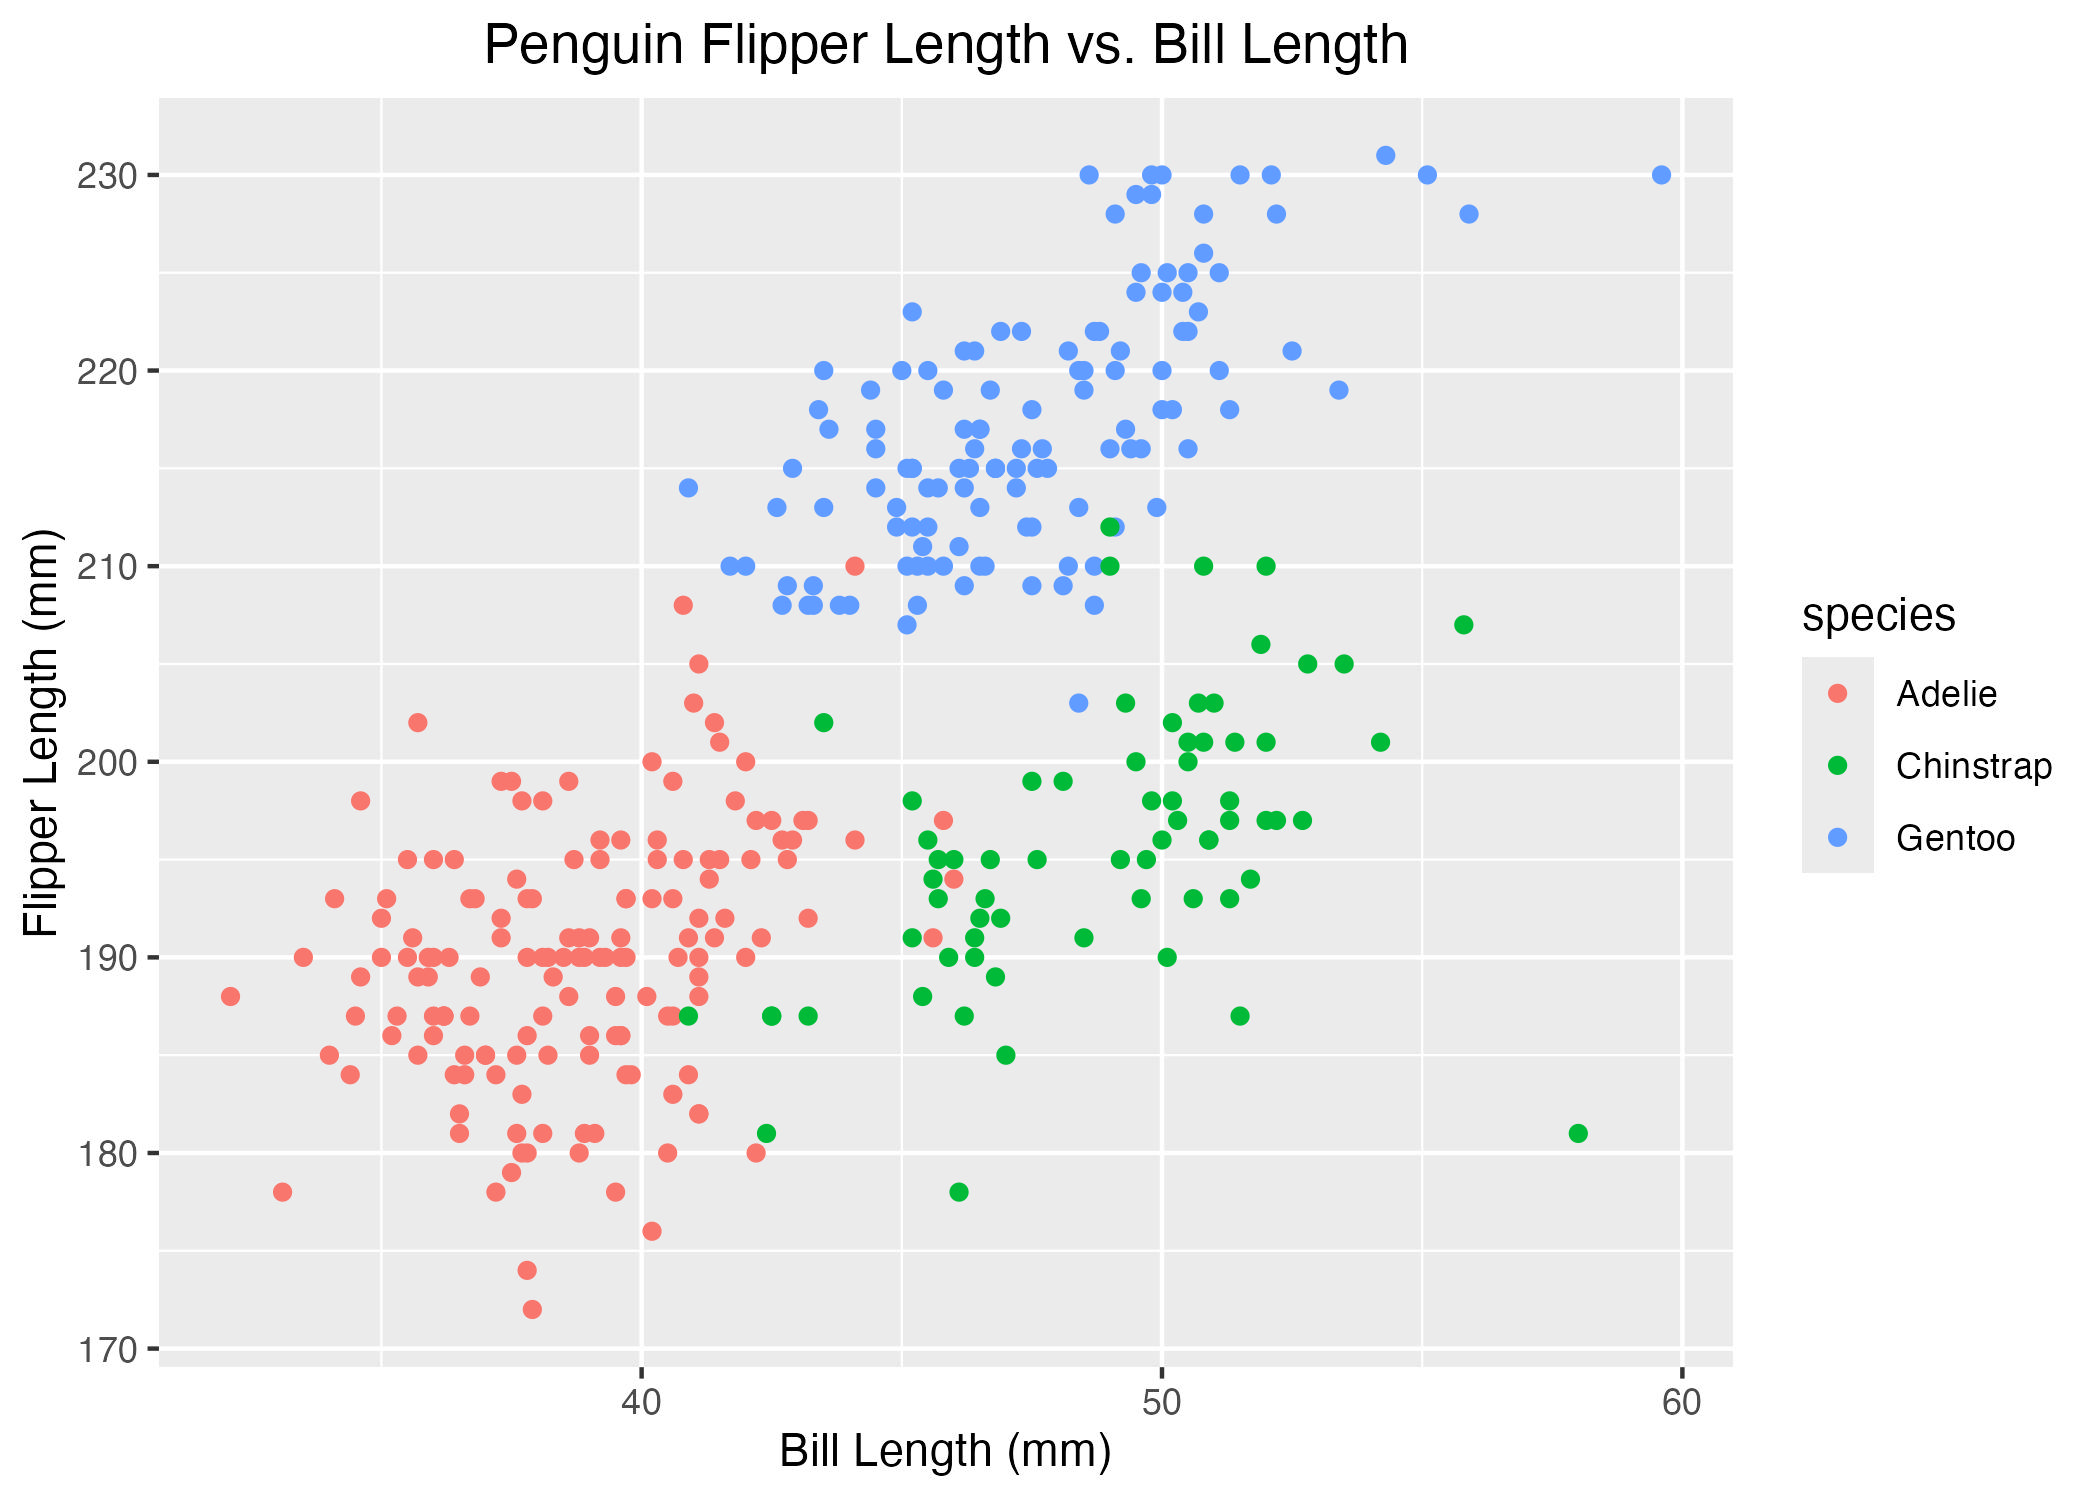
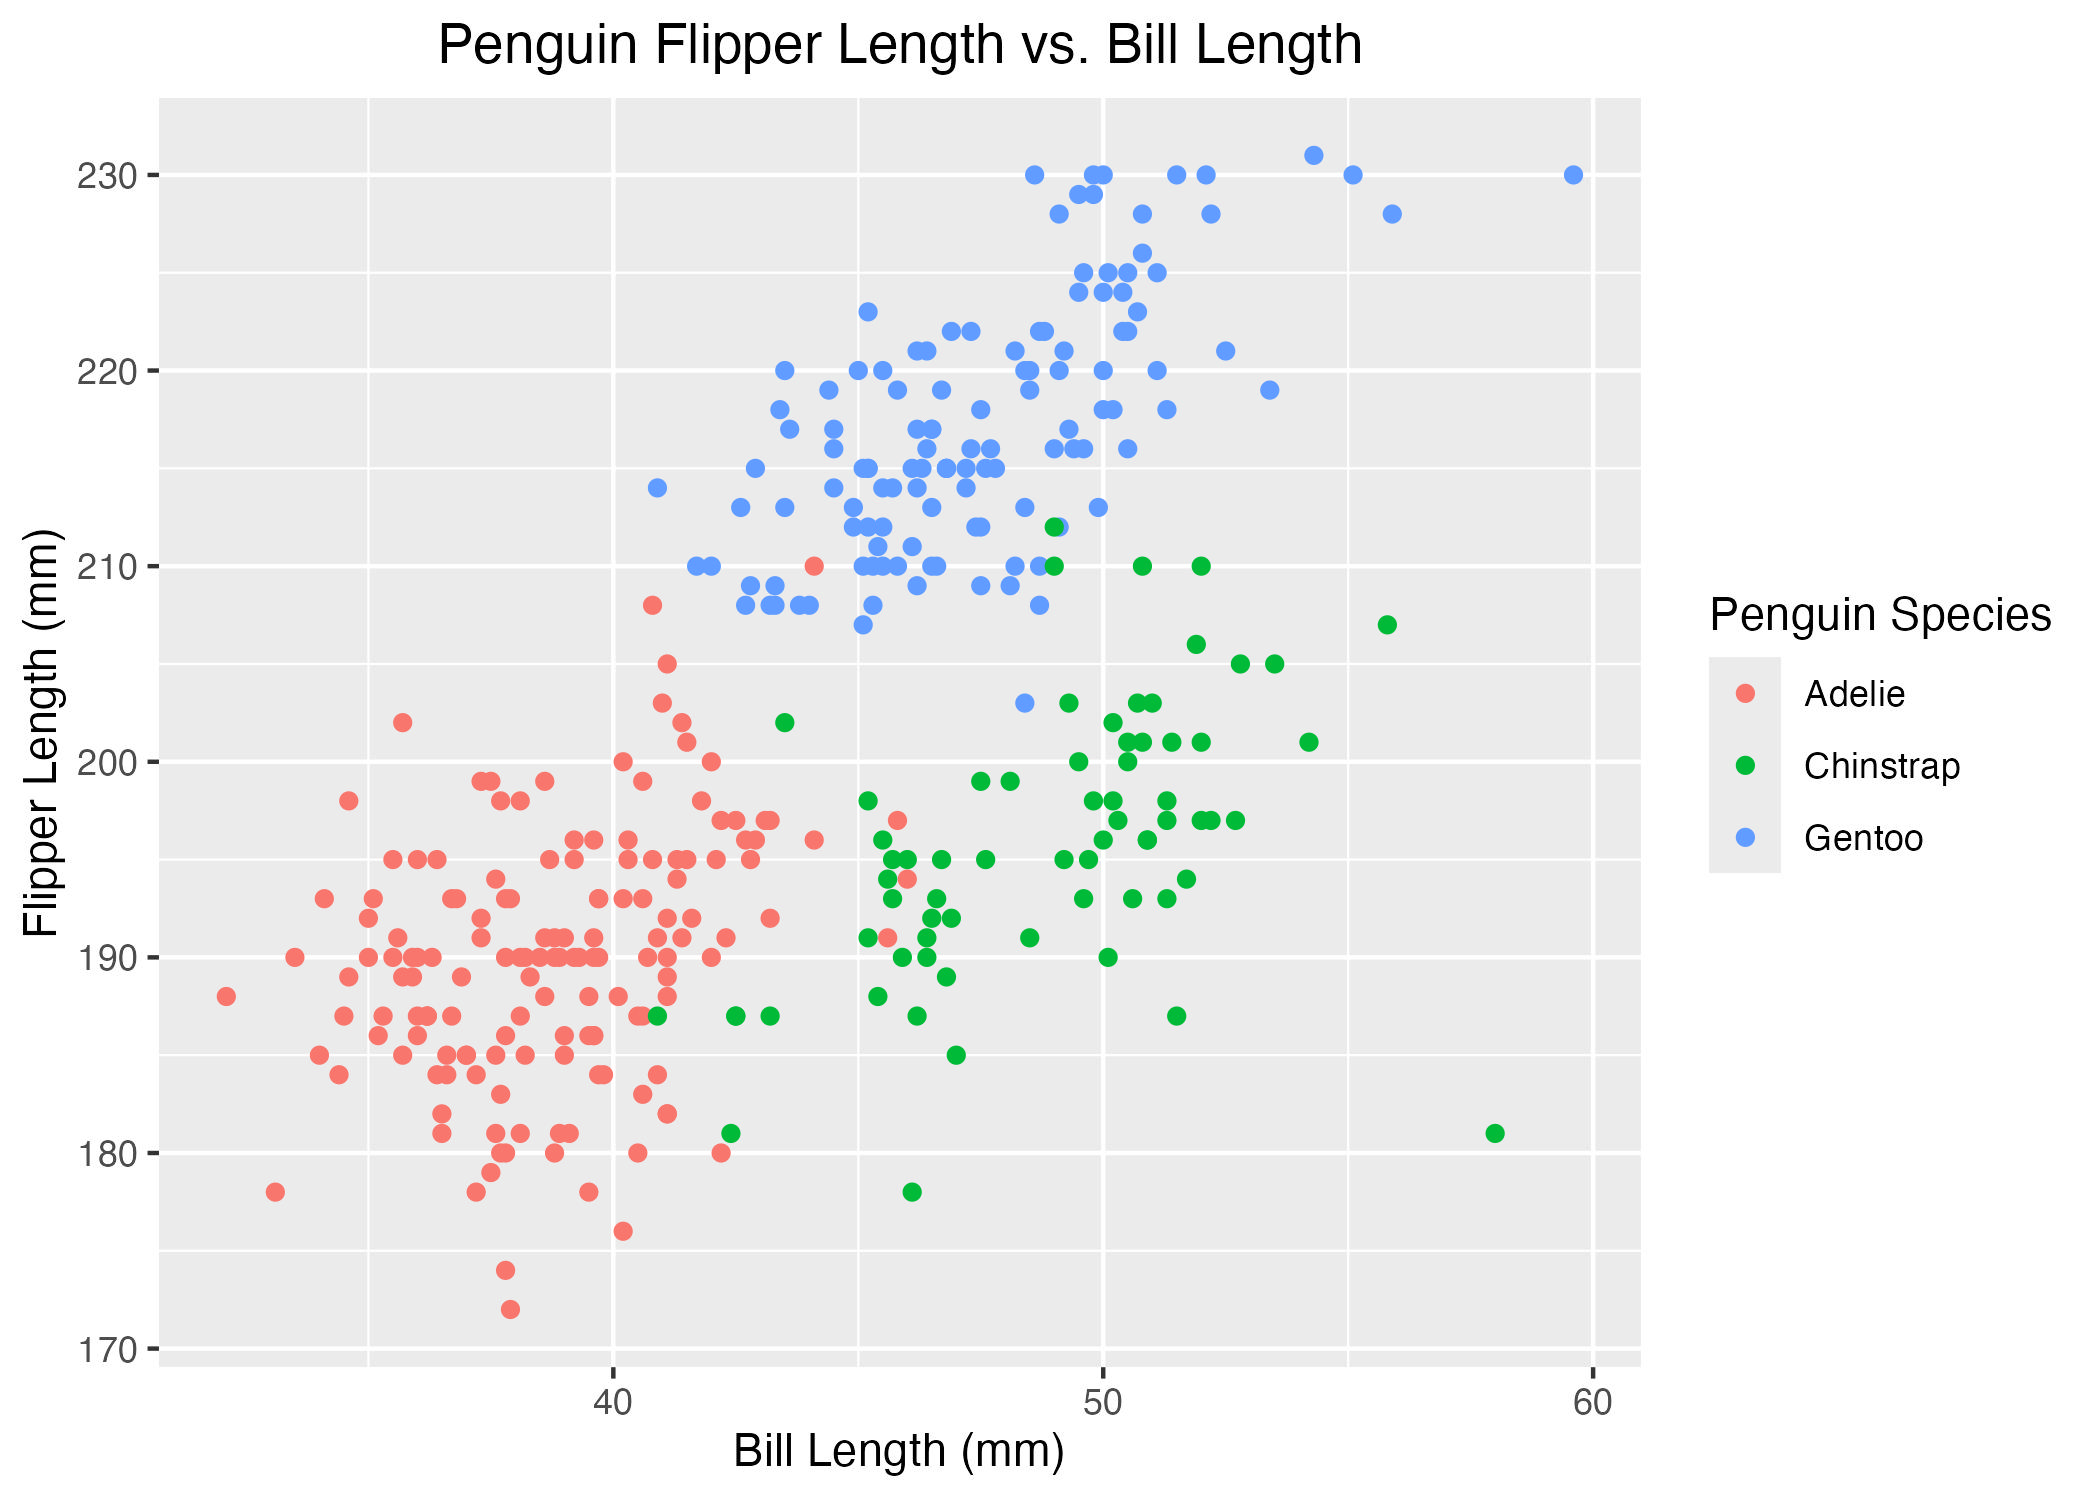
Last polishing of code and all sections. Ready to submit :)

diff --git a/p8105_hw1_daq2107.md b/p8105_hw1_daq2107.md
@@ -22,10 +22,6 @@ library(tidyverse)
     ## ✖ dplyr::lag()    masks stats::lag()
     ## ℹ Use the conflicted package (<http://conflicted.r-lib.org/>) to force all conflicts to become errors
 
-``` r
-library(skimr)
-```
-
 ## Problem 1
 
 Loading ‘penguins’ data set:
@@ -37,7 +33,7 @@ data("penguins", package = "palmerpenguins")
 After the data has been loaded, we can explore the ‘penguins’ data set:
 
 ``` r
-penguins #General observation of the data frame
+penguins #General observation of the data frame.
 ```
 
     ## # A tibble: 344 × 8
@@ -69,59 +65,72 @@ ncol(penguins) #Obtaining number of columns
     ## [1] 8
 
 ``` r
-skim(penguins$flipper_length_mm) #Using the 'skimr' package to obtain mean flipper length
+#To obtain the mean value of the flipper length, we use the pull function and remove the missing values using 'na.rm':
+mean(pull(penguins, flipper_length_mm), na.rm = TRUE)
 ```
 
-|  |  |
-|:---|:---|
-| Name | penguins\$flipper_length_m… |
-| Number of rows | 344 |
-| Number of columns | 1 |
-| \_\_\_\_\_\_\_\_\_\_\_\_\_\_\_\_\_\_\_\_\_\_\_ |  |
-| Column type frequency: |  |
-| numeric | 1 |
-| \_\_\_\_\_\_\_\_\_\_\_\_\_\_\_\_\_\_\_\_\_\_\_\_ |  |
-| Group variables | None |
-
-Data summary
-
-**Variable type: numeric**
-
-| skim_variable | n_missing | complete_rate |   mean |    sd |  p0 | p25 | p50 | p75 | p100 | hist  |
-|:--------------|----------:|--------------:|-------:|------:|----:|----:|----:|----:|-----:|:------|
-| data          |         2 |          0.99 | 200.92 | 14.06 | 172 | 190 | 197 | 213 |  231 | ▂▇▃▅▂ |
-
-#### what do we say about ‘important values of variables’?
-
-#### okay to use ‘skmr’ package or do we need to just use mean?
-
-**Description:** We see that the ‘penguins’ data set is a tibble
-containing 344 observations and 8 variables, as confirmed by the ‘nrow’
-and ‘ncol’ functions (344 rows and 8 columns). Each observation
-corresponds to a penguin, whereas the variables describe their location
-(‘island’ variable), their species, sex, year of physical
-characteristics of each penguin, including their bills’ length and depth
-(mm), their flippers’ length (mm), and overall body mass (g).
-
-Additionally, we see that the mean flipper length for all observations
-in the data set is 200.9152 mm.
-
-We can also create a scatter plot of flipper length (y) vs. bill length
-(x):
+    ## [1] 200.9152
 
 ``` r
-#Using ggplot (part of 'tidyverse' package):
+sd(pull(penguins, flipper_length_mm), na.rm = TRUE)
+```
+
+    ## [1] 14.06171
+
+``` r
+#Also analyzing bill length, since this is an important variable that we will be analyzing:
+mean(pull(penguins, bill_length_mm), na.rm = TRUE)
+```
+
+    ## [1] 43.92193
+
+``` r
+sd(pull(penguins, bill_length_mm), na.rm = TRUE)
+```
+
+    ## [1] 5.459584
+
+``` r
+#Using inline R code below...
+```
+
+**Description (using inline R code):** We see that the ‘penguins’ data
+set is a tibble containing 344 observations and 8 variables. Each
+observation corresponds to a penguin, whereas the variables describe
+their location (categorical ‘island’ variable), their species
+(categorical), sex (categorical), year (numeric), and physical
+characteristics of each penguin, including their bills’ length and depth
+(millimeters; numeric), their flippers’ length (millimeters; numeric),
+and overall body mass (grams; numeric).
+
+Additionally, after removing missing values (using ‘na.rm’) we see that
+the mean flipper length for all observations in the data set is
+200.9152047 mm, with a standard deviation of 14.0617137 mm.
+
+Moreover, after removing missing values we see that the mean bill length
+for all observations in the data set is 43.9219298 mm, with a standard
+deviation of `r`sd(pull(penguins, bill_length_mm), na.rm = TRUE)\` mm.
+
+**Visualizing the data**
+
+We can also create a scatter plot of flipper length (y) vs. bill length
+(x). Note that ggplot automatically removes NA values when creating the
+scatter plot:
+
+``` r
+#Using ggplot (part of 'tidyverse' package). Note that ggplot automatically removes NA values from scatter plot:
 
 ggplot(penguins, aes(x = bill_length_mm, 
                      y = flipper_length_mm,
                      color = species)) +  #Coloring per 'species' variable
     geom_point() +
   
-#Adding labels to my scatter plot (I know this code per previous experience with ggplot)
+#Adding labels to my scatter plot (I know this code syntax per previous experience with ggplot in another class and work)
   
   labs(title = "Penguin Flipper Length vs. Bill Length",
        x = "Bill Length (mm)",
-       y = "Flipper Length (mm)") +
+       y = "Flipper Length (mm)",
+       color = "Penguin Species") +
   
   theme(plot.title = element_text(hjust = 0.5)) #Centering my title
 ```
@@ -142,22 +151,14 @@ ggsave(filename = "DSI_HW1_Problem1.jpg")
     ## Warning: Removed 2 rows containing missing values or values outside the scale range
     ## (`geom_point()`).
 
-##### jpg or png???
-
-#### do we need to address the missing values???
-
-#### okay extra ggplot things considering my previous class????
-
-#### email reminding him older R version. to Gustavo???
-
 ## Problem 2
 
 We can create a data frame using the ‘tibble’ function (part of the
 ‘tidyverse’ package):
 
-####### do we need to take ‘seed’? to make sure means remain consistent?
-
 ``` r
+set.seed(0) #Setting seed to make sure you are getting the same output as me
+
 new_df = tibble(
   vec_sample = rnorm(10, mean = 1), #Random sample of 10 and mean equal to 1
   vec_log = vec_sample > 0, #Logical vector checking if the sample's elements are above zero
@@ -167,19 +168,19 @@ new_df = tibble(
 ```
 
 After we have created our desired data frame, we can attempt to take the
-mean of each newly-created variable:
+mean of each newly-created vector variable:
 
 ``` r
 mean(pull(new_df, vec_sample))
 ```
 
-    ## [1] 0.5410555
+    ## [1] 1.358924
 
 ``` r
 mean(pull(new_df, vec_log))
 ```
 
-    ## [1] 0.7
+    ## [1] 0.9
 
 ``` r
 mean(pull(new_df, vec_char))
@@ -200,63 +201,42 @@ mean(pull(new_df, vec_factor))
     ## [1] NA
 
 We can see from the output above that we are able to take the mean for
-our random sample (mean = 0.7015389) and logical vectors (mean = 0.7).
-However, as expected, we cannot take the means of our character and
-factor vectors since they are not numerical.
+our random sample (mean = 1.36) and logical vectors (mean = 0.9; since
+it is taking Boolean values to be either ‘1’ or ‘0’ for TRUE or FALSE,
+respectively). However, as expected, we cannot take the means of our
+character and factor vectors since they are not numerical.
 
-We can attempt to use the ‘as.numeric’ function to convert the variables
-into numerical variables and then take the mean:
-
-``` r
-as.numeric(new_df$vec_log)
-```
-
-    ##  [1] 1 1 1 0 1 1 0 0 1 1
+Per the assignment instructions, we can attempt to use the ‘as.numeric’
+function to convert the variables into numerical variables and then take
+the mean:
 
 ``` r
-as.numeric(new_df$vec_char)
+#Observing my vectors converted using 'as.numeric':
+as.numeric(pull(new_df, vec_sample))
+as.numeric(pull(new_df, vec_log))
+as.numeric(pull(new_df, vec_char))
 ```
 
     ## Warning: NAs introduced by coercion
 
-    ##  [1] NA NA NA NA NA NA NA NA NA NA
-
 ``` r
-as.numeric(new_df$vec_factor)
+as.numeric(pull(new_df, vec_factor))
 ```
 
-    ##  [1] 3 1 1 3 2 2 3 3 2 1
+**Consider that the following description is based on the output I was
+able to observe. However, per the assignment instructions, the final
+version of this RMarkdown does not show the code chunk output (removed
+using ‘results = hide’):**
 
-``` r
-mean(as.numeric(pull(new_df, vec_log)))
-```
+What happens from using the code above is that the ‘as.numeric’ function
+converts the vector elements into numerical elements. This works for the
+random sample, logical, and factor vectors, but not for the character
+vector. The random sample elements were kept as numeric. The logical
+vector elements converted into numeric 1 or 0 (values corresponding to
+‘TRUE’ and ‘FALSE’, respectively) and the factor vector elements to
+numeric 1, 2, or 3 values (corresponding to each of the three
+categorical levels). However, the character vector values still remain
+as ‘NA’. This makes sense since there is no standardized logic or order
+for character elements to convert them to numerical elements.
 
-    ## [1] 0.7
-
-``` r
-mean(as.numeric(pull(new_df, vec_char)))
-```
-
-    ## Warning in mean(as.numeric(pull(new_df, vec_char))): NAs introduced by coercion
-
-    ## [1] NA
-
-``` r
-mean(as.numeric(pull(new_df, vec_factor)))
-```
-
-    ## [1] 2.1
-
-####### confirm in office hours
-
-####### says to use chunk but not output???
-
-As we can see, the ‘as.numeric’ function was able to convert the logical
-vector elements into 0 or 1 (values corresponding to ‘TRUE’ or ‘FALSE’)
-and the factor vector elements to 1, 2, or 3 (values corresponding to
-each of the three levels). The means for the logical and factor vectors,
-after converting to numeric, we see they have means of 0.7 and 2.1,
-respectively. However, we see that the character vector values still
-remain as ‘NA’, and so does the mean value. This makes sense since there
-is no standardized logic or order for character elements to convert them
-to numerical elements.
+## The End :) Have a wonderful day!
